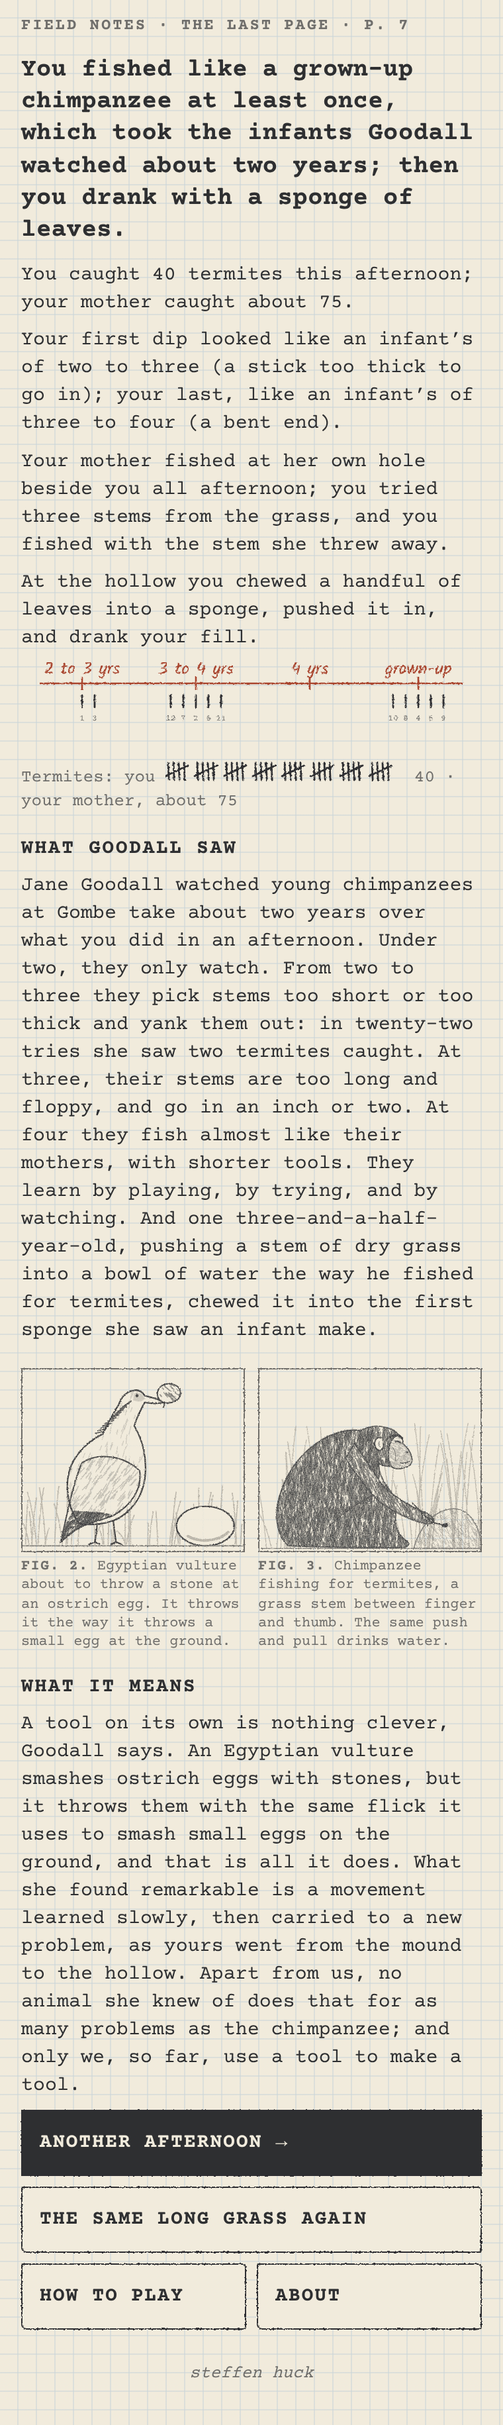
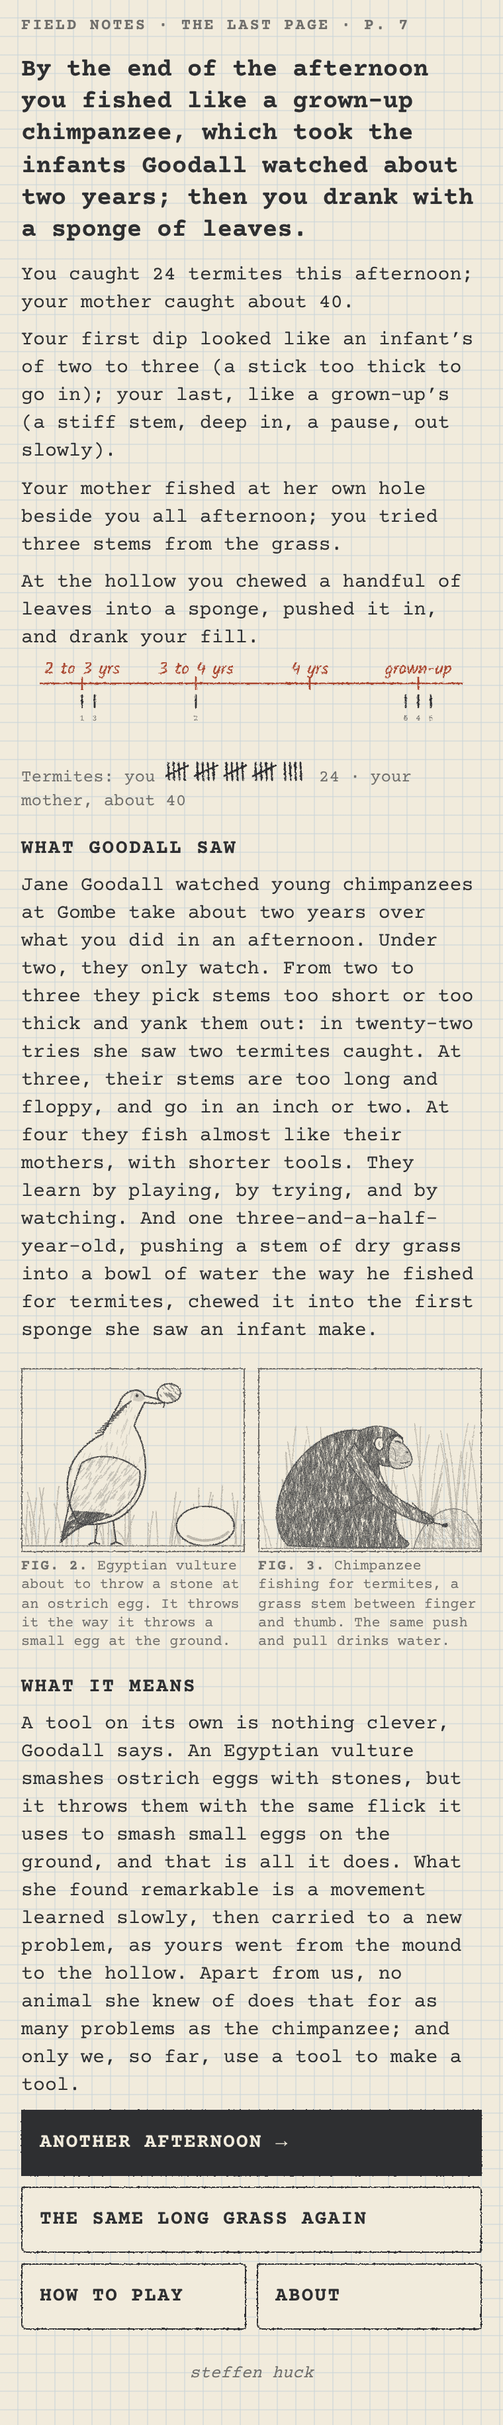
Goodall's Long Grass, revision 4: an afternoon of six suns
SUNS 12 -> 6 by his call; help, About and memo updated; the calibration's
trial-and-error check now reads near half of the best (23 of 48); 26/26;
scripted session re-run clean.

Claude-Session: https://claude.ai/code/session_018niUhwhtvgCJfmPN73Cyiw

diff --git a/goodall/goodalls-long-grass.html b/goodall/goodalls-long-grass.html
@@ -191,7 +191,7 @@ footer.sig a{color:var(--g2);text-decoration:none}
   <p><b>Touch a stem in the grass to take it.</b> It comes into your hand, drawn as itself: a grass blade is wide and floppy, a grass stem thin and stiff with a seed head, a twig has leaves, a stick is thick. The line under the drawing tells you how long, how thick and how stiff it is. Whatever was in your hand before goes on the heap at the foot of the mound. The grass grows back, so you can always take another.</p>
   <h3>Fishing</h3>
   <p><b>Press on the drawing and drag down</b> to push your stem into the hole. <b>Let go</b> to leave it there: termites bite on to whatever comes into their passage, and they need a moment. <b>Drag up</b> to pull it out: if it moves faster than they can hold on, they fall off. Whatever is on the stem when it comes out, you eat; there is no button for it. The stem goes in until something stops it: too thick for the hole, leaves catching on the rim, a floppy stem folding at a bend, or its own length. When that happens a pencil note on the drawing says what stopped it, and where. If a stem is in the hole and you touch another in the grass, the game draws the first one out for you, slowly, and gives you the other.</p>
-  <p>Each dip takes one sun from the afternoon; when the twelve suns are gone, your mother moves off. A stem's end bends after a few dips: a note by your hand says <b>touch to bite it off</b>, and biting makes it an inch shorter and straight again. A leafy twig has a note that says <b>touch to strip them</b>. When your mother throws a bent stem down, it lies by her hole: touch it to take it.</p>
+  <p>Each dip takes one sun from the afternoon; when the six suns are gone, your mother moves off. A stem's end bends after a few dips: a note by your hand says <b>touch to bite it off</b>, and biting makes it an inch shorter and straight again. A leafy twig has a note that says <b>touch to strip them</b>. When your mother throws a bent stem down, it lies by her hole: touch it to take it.</p>
   <p>After each dip the game says what happened (how far in, whether there was a pause, how fast it came out, how many termites). Then, in red, a note from Jane Goodall: which age of young chimpanzee fishes the way you just did, and a tick on her ruler of ages.</p>
   <div id="helphollow" class="hidden">
     <h3>The hollow</h3>
@@ -210,7 +210,7 @@ footer.sig a{color:var(--g2);text-decoration:none}
 <p>What she finds remarkable is the chimpanzee: an animal that learns its tool-use slowly, by playing, trying and watching, and carries it to new problems. At Gombe, infants under two do not fish for termites; they watch their mothers. From two to three they use the wrong material (too short, too thick) and pull the tool out with a jerk that shakes off anything that bit on: in twenty-two bouts she saw two termites caught. From three to four their tools are longer but often too flexible, and go in only an inch or two. At four they fish almost like adults, with shorter tools. Adults push five to eight inches in, pause, and draw the tool out smoothly; they strip the leaves, bite off a bent end, pick several tools at once, often far from the mound and out of sight of it, and throw a tool away when it stops working. Infants pick up the tools adults throw away. To drink from a hollow, adults chew a handful of leaves into a sponge; one infant of three and a half, pushing a stem of dry grass into water with his termite-fishing movements and chewing the end each time he sucked it, made a sponge of the stem. The chapter ends on cultures: techniques that one gifted animal finds and others copy.</p>
 <h3>Mechanism: a toy, built to illustrate the paper's argument</h3>
 <p><b>This game demonstrates</b>, under its own assumptions, how the paper's account of learning to fish can work: the mistakes Goodall lists for each age fail for the reasons she gives (a stick too thick for the hole, a floppy stem that folds at a bend and goes in an inch or two, a jerk that shakes the termites off), and the adult's way succeeds (a stiff, stripped stem, five to eight inches in, a pause, a smooth pull). It also shows the movement you learned at the mound carried, unchanged, to the water in the hollow. Played the way her two-to-three-year-olds fished, the toy catches about two termites in twenty-two dips, as she saw.</p>
-<p><b>It assumes</b> (all ours): the inside of the mound (where the passage bends, where the termites wait, how wide the hole is); how fast termites bite on, how hard they hold on, and how many fit on an inch of stem; how quickly a tip bends; the lengths of the stems in the grass, and that the grass beside the mound always offers one of each kind (she describes tools chosen as much as a hundred yards away, out of sight of the mound; the game puts the grass beside it); an afternoon of twelve dips for what took the infants two years; one of Goodall's ages given to each dip by what happened in it; the sips a hand, a stem, a chewed stem and a wad of leaves lift from the hollow, and how many are enough. The game draws the mound cut open, so you can see what a chimpanzee's fingers would only feel. Every number sits in the config block at the top of the source, with its source or the reason for it.</p>
+<p><b>It assumes</b> (all ours): the inside of the mound (where the passage bends, where the termites wait, how wide the hole is); how fast termites bite on, how hard they hold on, and how many fit on an inch of stem; how quickly a tip bends; the lengths of the stems in the grass, and that the grass beside the mound always offers one of each kind (she describes tools chosen as much as a hundred yards away, out of sight of the mound; the game puts the grass beside it); an afternoon of six dips for what took the infants two years; one of Goodall's ages given to each dip by what happened in it; the sips a hand, a stem, a chewed stem and a wad of leaves lift from the hollow, and how many are enough. The game draws the mound cut open, so you can see what a chimpanzee's fingers would only feel. Every number sits in the config block at the top of the source, with its source or the reason for it.</p>
 <p><b>The paper establishes</b> what Goodall observed: the ages, the mistakes, the depths, the two termites in twenty-two bouts, the preparations, the infant's grass sponge and the adults' leaf sponge, from field notes at one site in the 1960s. Her claims about how tool-use develops (play, trial and error, watching, insight) and about cultures are offered as the reasonable reading of those observations, not as experiments. The termites you catch here are no evidence for any of it.</p>
 <h3>What is cut</h3>
 <p>Half the paper is about objects used in aggression and display: branches waved and dropped, stones thrown at baboons (one hit from nine throws in the first year of the feeding station, four from thirty-two the next), sticks used as clubs, and the low-ranking male who rose to the top of his community by banging empty paraffin cans in his charging display. Also cut: the birds and other mammals (except the vulture, on the last page); the experiments in captivity, from Köhler's chimpanzees to the one that would not use a hand axe to make a tool; sniffing the end of a stem to tell whether a hole is worth working; honey, ants, and leaves used to wipe the body; the only wild case of sudden insight she saw (a male who, afraid to take a banana from a human hand, shook grass at it, then broke off a stick and knocked it to the ground); and Kortlandt's idea that savanna chimpanzees lost their weapons to early man.</p>
@@ -304,7 +304,8 @@ footer.sig a{color:var(--g2);text-decoration:none}
     ADULT_TOOL: 8,                             // ours: a tool shorter than this is a four-year-old's "shorter" one (p. 231)
     SHALLOW: 2.5,                              // ours: by choice no deeper than this reads as "one or two inches" (p. 230)
     // ---- the afternoon (ours: the clock that stands for two years of termite seasons)
-    SUNS: 12,                                  // ours: each dip, each look at your mother and each stem fetched nearby
+    SUNS: 6,                                   // ours: each dip costs one (an afternoon of six, by his call after playing twelve);
+                                               //   in the calibration harness each look at your mother and each stem fetched nearby
                                                //   costs one; your mother dips once in each
     // ---- your mother (ours: an adult's dip within the paper's description)
     MOTHER: {

diff --git a/goodall/about.html b/goodall/about.html
@@ -5,7 +5,7 @@
 <p>What she finds remarkable is the chimpanzee: an animal that learns its tool-use slowly, by playing, trying and watching, and carries it to new problems. At Gombe, infants under two do not fish for termites; they watch their mothers. From two to three they use the wrong material (too short, too thick) and pull the tool out with a jerk that shakes off anything that bit on: in twenty-two bouts she saw two termites caught. From three to four their tools are longer but often too flexible, and go in only an inch or two. At four they fish almost like adults, with shorter tools. Adults push five to eight inches in, pause, and draw the tool out smoothly; they strip the leaves, bite off a bent end, pick several tools at once, often far from the mound and out of sight of it, and throw a tool away when it stops working. Infants pick up the tools adults throw away. To drink from a hollow, adults chew a handful of leaves into a sponge; one infant of three and a half, pushing a stem of dry grass into water with his termite-fishing movements and chewing the end each time he sucked it, made a sponge of the stem. The chapter ends on cultures: techniques that one gifted animal finds and others copy.</p>
 <h3>Mechanism: a toy, built to illustrate the paper's argument</h3>
 <p><b>This game demonstrates</b>, under its own assumptions, how the paper's account of learning to fish can work: the mistakes Goodall lists for each age fail for the reasons she gives (a stick too thick for the hole, a floppy stem that folds at a bend and goes in an inch or two, a jerk that shakes the termites off), and the adult's way succeeds (a stiff, stripped stem, five to eight inches in, a pause, a smooth pull). It also shows the movement you learned at the mound carried, unchanged, to the water in the hollow. Played the way her two-to-three-year-olds fished, the toy catches about two termites in twenty-two dips, as she saw.</p>
-<p><b>It assumes</b> (all ours): the inside of the mound (where the passage bends, where the termites wait, how wide the hole is); how fast termites bite on, how hard they hold on, and how many fit on an inch of stem; how quickly a tip bends; the lengths of the stems in the grass, and that the grass beside the mound always offers one of each kind (she describes tools chosen as much as a hundred yards away, out of sight of the mound; the game puts the grass beside it); an afternoon of twelve dips for what took the infants two years; one of Goodall's ages given to each dip by what happened in it; the sips a hand, a stem, a chewed stem and a wad of leaves lift from the hollow, and how many are enough. The game draws the mound cut open, so you can see what a chimpanzee's fingers would only feel. Every number sits in the config block at the top of the source, with its source or the reason for it.</p>
+<p><b>It assumes</b> (all ours): the inside of the mound (where the passage bends, where the termites wait, how wide the hole is); how fast termites bite on, how hard they hold on, and how many fit on an inch of stem; how quickly a tip bends; the lengths of the stems in the grass, and that the grass beside the mound always offers one of each kind (she describes tools chosen as much as a hundred yards away, out of sight of the mound; the game puts the grass beside it); an afternoon of six dips for what took the infants two years; one of Goodall's ages given to each dip by what happened in it; the sips a hand, a stem, a chewed stem and a wad of leaves lift from the hollow, and how many are enough. The game draws the mound cut open, so you can see what a chimpanzee's fingers would only feel. Every number sits in the config block at the top of the source, with its source or the reason for it.</p>
 <p><b>The paper establishes</b> what Goodall observed: the ages, the mistakes, the depths, the two termites in twenty-two bouts, the preparations, the infant's grass sponge and the adults' leaf sponge, from field notes at one site in the 1960s. Her claims about how tool-use develops (play, trial and error, watching, insight) and about cultures are offered as the reasonable reading of those observations, not as experiments. The termites you catch here are no evidence for any of it.</p>
 <h3>What is cut</h3>
 <p>Half the paper is about objects used in aggression and display: branches waved and dropped, stones thrown at baboons (one hit from nine throws in the first year of the feeding station, four from thirty-two the next), sticks used as clubs, and the low-ranking male who rose to the top of his community by banging empty paraffin cans in his charging display. Also cut: the birds and other mammals (except the vulture, on the last page); the experiments in captivity, from Köhler's chimpanzees to the one that would not use a hand axe to make a tool; sniffing the end of a stem to tell whether a hole is worth working; honey, ants, and leaves used to wipe the body; the only wild case of sudden insight she saw (a male who, afraid to take a banana from a human hand, shook grass at it, then broke off a stick and knocked it to the ground); and Kortlandt's idea that savanna chimpanzees lost their weapons to early man.</p>

diff --git a/goodall/template.html b/goodall/template.html
@@ -191,7 +191,7 @@ footer.sig a{color:var(--g2);text-decoration:none}
   <p><b>Touch a stem in the grass to take it.</b> It comes into your hand, drawn as itself: a grass blade is wide and floppy, a grass stem thin and stiff with a seed head, a twig has leaves, a stick is thick. The line under the drawing tells you how long, how thick and how stiff it is. Whatever was in your hand before goes on the heap at the foot of the mound. The grass grows back, so you can always take another.</p>
   <h3>Fishing</h3>
   <p><b>Press on the drawing and drag down</b> to push your stem into the hole. <b>Let go</b> to leave it there: termites bite on to whatever comes into their passage, and they need a moment. <b>Drag up</b> to pull it out: if it moves faster than they can hold on, they fall off. Whatever is on the stem when it comes out, you eat; there is no button for it. The stem goes in until something stops it: too thick for the hole, leaves catching on the rim, a floppy stem folding at a bend, or its own length. When that happens a pencil note on the drawing says what stopped it, and where. If a stem is in the hole and you touch another in the grass, the game draws the first one out for you, slowly, and gives you the other.</p>
-  <p>Each dip takes one sun from the afternoon; when the twelve suns are gone, your mother moves off. A stem's end bends after a few dips: a note by your hand says <b>touch to bite it off</b>, and biting makes it an inch shorter and straight again. A leafy twig has a note that says <b>touch to strip them</b>. When your mother throws a bent stem down, it lies by her hole: touch it to take it.</p>
+  <p>Each dip takes one sun from the afternoon; when the six suns are gone, your mother moves off. A stem's end bends after a few dips: a note by your hand says <b>touch to bite it off</b>, and biting makes it an inch shorter and straight again. A leafy twig has a note that says <b>touch to strip them</b>. When your mother throws a bent stem down, it lies by her hole: touch it to take it.</p>
   <p>After each dip the game says what happened (how far in, whether there was a pause, how fast it came out, how many termites). Then, in red, a note from Jane Goodall: which age of young chimpanzee fishes the way you just did, and a tick on her ruler of ages.</p>
   <div id="helphollow" class="hidden">
     <h3>The hollow</h3>

diff --git a/goodall/calibration.js b/goodall/calibration.js
@@ -171,7 +171,7 @@ say(`  your mother, every afternoon: about ${f1(mean(table.map(x => x.mother)))}
 const T = n => table.find(x => x.name.startsWith(n));
 check('the decisions matter: best possible catches at least four times what “long is best” or “fast hands” does',
   T('best possible').mean >= 4 * Math.max(T('long is best').mean, T('fast hands').mean), `${f1(T('best possible').mean)} against ${f1(T('long is best').mean)} and ${f1(T('fast hands').mean)}`);
-check('learning by trying gets most of the way to the best', T('trial and error').mean >= 0.5 * T('best possible').mean, `${f1(T('trial and error').mean)} of ${f1(T('best possible').mean)}`);
+check('learning by trying gets near half of the way to the best in a six-sun afternoon', T('trial and error').mean >= 0.4 * T('best possible').mean, `${f1(T('trial and error').mean)} of ${f1(T('best possible').mean)}`);
 check('watching once pays: copying your mother beats learning by trying and comes within a quarter of the best; watching four times costs more',
   T('copy your mother').mean > T('trial and error').mean && T('copy your mother').mean >= 0.75 * T('best possible').mean && T('watcher').mean < T('copy your mother').mean,
   `${f1(T('copy your mother').mean)} against trying ${f1(T('trial and error').mean)}; watcher ${f1(T('watcher').mean)}`);

diff --git a/goodall/mechanism.js b/goodall/mechanism.js
@@ -80,7 +80,8 @@
     ADULT_TOOL: 8,                             // ours: a tool shorter than this is a four-year-old's "shorter" one (p. 231)
     SHALLOW: 2.5,                              // ours: by choice no deeper than this reads as "one or two inches" (p. 230)
     // ---- the afternoon (ours: the clock that stands for two years of termite seasons)
-    SUNS: 12,                                  // ours: each dip, each look at your mother and each stem fetched nearby
+    SUNS: 6,                                   // ours: each dip costs one (an afternoon of six, by his call after playing twelve);
+                                               //   in the calibration harness each look at your mother and each stem fetched nearby
                                                //   costs one; your mother dips once in each
     // ---- your mother (ours: an adult's dip within the paper's description)
     MOTHER: {

diff --git a/goodall/session-test.js b/goodall/session-test.js
@@ -26,7 +26,7 @@ const say = s => console.log(s);
     return s;
   }
   const hold = async k => { await page.click(`#hold [data-hold="${k}"]`); await page.waitForTimeout(150); say(`  hold ${k}`); };
-  const press = async (sel, what) => { await page.click(sel); await page.waitForTimeout(250); say(`  ${what}: ${await text('#typed')}`); };
+  const press = async (sel, what) => { const ok = await page.$eval(sel, e => !e.disabled && !e.classList.contains('hidden')); if (!ok) { say(`  (${what}: not possible with this)`); return; } await page.click(sel); await page.waitForTimeout(250); say(`  ${what}: ${await text('#typed')}`); };
 
   await page.goto('file://' + path.join(__dirname, 'goodalls-long-grass.html#p=7'));
   await shot('a-cover'); await noScroll('cover');

diff --git a/goodall/memo.md b/goodall/memo.md
@@ -127,7 +127,7 @@ Also considered and dropped: **The Cans** (agent: the low-ranking male who bangs
 
 ## 11. The shape (as rebuilt in revision 3)
 
-One game in two places, about five minutes, and one drawing for each. At the mound: twelve suns; each dip costs one. The whole afternoon is one pencil plate: the long grass on the left with five stems standing in it, the mound cut open in the middle with your hole, your mother at her own hole on the right, fishing every sun in the picture. You hold one stem at a time: touch a stem in the grass and it comes into your hand, drawn as itself; whatever you held goes on the heap at the foot of the mound, and the grass grows back, so the five kinds (a blade, a stem, a leafy twig, a stick, and one more) are always there to choose from. Then the hollow (five suns), the last page, How to play, About. No presets: the paper's regimes are ages, and the player passes through them by their own hand. Ordered for the player: the mound first, because the movement has to be learned before it can be carried; the hollow unannounced. Score: none; the tally of termites, the sips, the heap and the ticks on Goodall's ruler are the yardstick. The game ends once; ANOTHER AFTERNOON begins a new one with new grass.
+One game in two places, about five minutes, and one drawing for each. At the mound: six suns (twelve until revision 4); each dip costs one. The whole afternoon is one pencil plate: the long grass on the left with five stems standing in it, the mound cut open in the middle with your hole, your mother at her own hole on the right, fishing every sun in the picture. You hold one stem at a time: touch a stem in the grass and it comes into your hand, drawn as itself; whatever you held goes on the heap at the foot of the mound, and the grass grows back, so the five kinds (a blade, a stem, a leafy twig, a stick, and one more) are always there to choose from. Then the hollow (five suns), the last page, How to play, About. No presets: the paper's regimes are ages, and the player passes through them by their own hand. Ordered for the player: the mound first, because the movement has to be learned before it can be carried; the hollow unannounced. Score: none; the tally of termites, the sips, the heap and the ticks on Goodall's ruler are the yardstick. The game ends once; ANOTHER AFTERNOON begins a new one with new grass.
 
 ## 12. Controls, mechanism, feedback, moment
 
@@ -144,7 +144,7 @@ One game in two places, about five minutes, and one drawing for each. At the mou
 - **Type:** Courier Prime (Alan Dague-Greene, SIL OFL), the typewriter in which field notes were typed up, for the game's voice, labels, buttons and the title, regular and bold; Kalam (Indian Type Foundry, SIL OFL), a light pencil hand, for Goodall's red-pencil lines and the ruler's age marks. Both embedded as data.
 - **Buttons:** paper slips: a typed label in capitals inside a pencil-ruled box (1.5 px graphite, corners barely rounded, the line roughened by an SVG pencil filter where the browser allows it, clean where it does not), cream on cream; the primary action is a slip shaded solid with graphite and typed in cream. No shadows, no colour.
 - **The one visual rule:** graphite for everything that happens; red pencil for Goodall's hand and nothing else. The player's dips, stems, termites and water are graphite; the paper's word on them (the age, the figure number, the five-to-eight inches) arrives afterwards in red, in the margin and on the ruler.
-- **The plate at 380 px** (revision 3): the aim (two lines, 13 px) with ? at the right; a strip with twelve suns and the tally (strokes of five up to twenty, then the number); the plate, 348 × 285 on the squared page: pale grass strokes and five stems standing in the long grass at the left, each drawn as itself (a blade wide and floppy with a midrib, a grass stem with nodes and a seed head, a leafy twig with alternate leaves, a bark-textured stick with a knot, a twig with buds) at 8 px to the inch, each a touch target; the ground line; the mound's hump with two holes; your passage drawn as a double pencil line through two bends to the chamber, inches on its right; her passage on the right, plainer; termites waiting below three inches in both; your stem rising from your hole into a chimpanzee's hand at the upper left, foreshortened so the hand stays on the page and moves as the stem goes in; her stem and hand from the upper right, mirrored; the heap of dropped stems at the foot of the mound; her thrown-down stem between the holes when there is one; a pencil note in the lower left with a dotted leader the moment something stops the stem; the drag hint in the lower left until the first dip is completed; directly under the plate the result line typed, Goodall's line in red pencil, her ruler, then the figure caption. One visual rule as before: graphite for everything that happens, red pencil for Goodall's hand only.
+- **The plate at 380 px** (revision 3): the aim (two lines, 13 px) with ? at the right; a strip with six suns and the tally (strokes of five up to twenty, then the number); the plate, 348 × 285 on the squared page: pale grass strokes and five stems standing in the long grass at the left, each drawn as itself (a blade wide and floppy with a midrib, a grass stem with nodes and a seed head, a leafy twig with alternate leaves, a bark-textured stick with a knot, a twig with buds) at 8 px to the inch, each a touch target; the ground line; the mound's hump with two holes; your passage drawn as a double pencil line through two bends to the chamber, inches on its right; her passage on the right, plainer; termites waiting below three inches in both; your stem rising from your hole into a chimpanzee's hand at the upper left, foreshortened so the hand stays on the page and moves as the stem goes in; her stem and hand from the upper right, mirrored; the heap of dropped stems at the foot of the mound; her thrown-down stem between the holes when there is one; a pencil note in the lower left with a dotted leader the moment something stops the stem; the drag hint in the lower left until the first dip is completed; directly under the plate the result line typed, Goodall's line in red pencil, her ruler, then the figure caption. One visual rule as before: graphite for everything that happens, red pencil for Goodall's hand only.
 - **The long grass** is on the plate (above); there is no separate grass screen.
 - **The hollow at 380 px:** the same layout as the mound, with a tree trunk in section and the water surface drawn as a few level pencil strokes; a gauge of sips (a vertical pencil tube at the right, filling with graphite) in place of the tally.
 - **Last page:** the heading typed; the three verdict lines; Goodall's ruler at full width with every dip ticked and numbered; the two tallies (yours, hers) in strokes of five; three small pencil drawings in the paper's manner, each with a typed caption in the paper's style (FIG. 1. Egyptian vulture about to throw a stone at an ostrich egg. FIG. 2. Banded mongoose hurling a stone between its legs. FIG. 3. Young chimpanzee with a grass stem, termite season); ANOTHER AFTERNOON, How to play, About.
@@ -161,7 +161,7 @@ One game in two places, about five minutes, and one drawing for each. At the mou
 
 ## 15. Divergences
 
-- **The clock.** An afternoon of twelve dips stands for the two years (about two to four) over which Goodall's infants learned; termite seasons last three or four months a year. Reason: the player has to pass through the ages by their own hand in a few minutes.
+- **The clock.** An afternoon of six dips (twelve until revision 4) stands for the two years (about two to four) over which Goodall's infants learned; termite seasons last three or four months a year. Reason: the player has to pass through the ages by their own hand in a few minutes.
 - **The passage, the termites and the stem are ours.** Bends, widths, depths of the chamber, the rate at which termites bite on, their grip, the wear of the tip, the length the fingers take up: chosen so that the paper's mistakes fail for the paper's reasons and the adult technique (five to eight inches, a slight pause, a smooth withdrawal) succeeds. The paper gives the depths, the mistakes and the preparations, not the mechanics.
 - **The section view.** A chimpanzee feels the passage; it does not see it. The player sees in pencil what the hand would feel. Declared on About.
 - **The mother's catch per dip and the termites per inch are ours.** The paper gives no adult rates; the infants' two in twenty-two bouts is the one count, and the toy reproduces it (section 17).
@@ -198,17 +198,17 @@ Result: 26 checks, 26 passed (`calibration-result.txt`).
 
 | Strategy | Termites (mean; min–max) | Last dip |
 |---|---|---|
-| Long is best (three longest, no preparation, slow) | 8 (0–48) | 3–4 (73 %) |
+| Long is best (three longest, no preparation, slow) | 5 (0–32) | 3–4 (30 %) |
 | Fast hands (good stems, pulled at a flick) | 0 | 2–3 |
-| Trial and error (mixed kit; slows after a jerk, drops what folds) | 51 (0–70) | grown-up (49 %) |
-| Copy your mother (watch once, then as she does) | 88 | grown-up |
-| Watcher (watch four times first) | 64 | grown-up |
+| Trial and error (mixed kit; slows after a jerk, drops what folds) | 23 (0–28) | grown-up (81 %) |
+| Copy your mother (watch once, then as she does) | 40 | grown-up |
+| Watcher (watch four times first) | 16 | grown-up |
 | Never bites a bent end | 24 | 3–4 |
-| Four-year-old (shorter or springier tools) | 13 | 4 |
-| Best possible (never watches) | 96 | grown-up |
-| Her, every afternoon | about 77 | grown-up |
+| Four-year-old (shorter or springier tools) | 8 (6–26) | 4 |
+| Best possible (never watches) | 48 | grown-up |
+| Her, every afternoon | about 39 | grown-up |
 
-The decisions matter (best against long-is-best or fast hands: twelve times and more); learning by trying gets half to three-quarters of the way; one look at her pays, four cost; biting a bent end is worth seventy termites. No single rule wins: the long stem, the fast hand and the short tool each fail for a different reason, which is the paper's list of mistakes. A player who fishes perfectly from the first dip out-fishes the mother (she never goes the whole eight inches); a real first-timer, who spends dips learning, does not. At the hollow, after any afternoon, a grass stem sucked five times or chewed first drinks its fill; a hand or a twig does not.
+(Six-sun afternoons, from revision 4; the harness still carries three stems and pays a sun to watch, as the first build did.) The decisions matter (best against long-is-best or fast hands: nine times and more); learning by trying gets near half of the way in six suns; one look at her pays, four cost; biting a bent end is worth twenty-four termites. No single rule wins: the long stem, the fast hand and the short tool each fail for a different reason, which is the paper's list of mistakes. A player who fishes perfectly from the first dip out-fishes the mother (she never goes the whole eight inches); a real first-timer, who spends dips learning, does not. At the hollow, after any afternoon, a grass stem sucked five times or chewed first drinks its fill; a hand or a twig does not.
 
 ## 19. Build log
 
@@ -227,3 +227,4 @@ The decisions matter (best against long-is-best or fast hands: twelve times and 
 - **Revision 1b (3 Nov, after his second play: "no option to just eat").** The one control that is the game, the drag on the section drawing, sat below the fold on a laptop under the stem's buttons, and eating has no button (it happens when the stem comes out), so a player pressed buttons and never fished. Now: a bold typed line between the hand box and the drawing, shown until the first dip in each place, says to press on the drawing and drag the stem down, let go, drag up, and that what comes out is eaten ("there is no button for it: the drag is the fishing"); the drag hint on the drawing stays until a dip is completed rather than vanishing at the first touch; after watching the mother with no dip yet, the result line ends "Now you: drag your stem down into the hole in the drawing."; the opening line at the mound says drag, not push.
 - **Revision 1c (3 Nov, after his third play: "I cannot easily switch to one of the other stems").** While a stem was in the hole (left there, or folded), a touch on another slot was silently ignored until the stem had been dragged out. Now a touch on another stem draws the one in the hole out at a slow pull (nothing on it is lost, the dip counts as the dip it was) and then takes the one touched; the slot label says so while a stem is in ("touch another: this one comes out first"). A touch that never entered the hole costs nothing and switches at once.
 - **Revision 3 (3 Nov, "make it beautiful and human").** After four plays he found the apparatus (three slots, a ruler strip, fetch, switch) more than the paper asked for, the stems all alike ("asparagus"), and no progression from round to round. Rebuilt around one drawing and one stem at a time: the long grass with five standing stems, the mound with your hole and hers, your mother fishing in the picture every sun, the heap of dropped stems growing at the mound's foot, your stem drawn as itself in the grass, in your hand and in the passage (one `stemArt` for all three), her thrown-down stem touchable, leaves and bent ends touched on the plate instead of buttons, no slots, no fetch, no watch button. Mechanism: `beginMound`, `pickFromGrass` (the clump grows back by kind), `dropHeld`; `pickUpHers` heaps the stem in hand; the verdict's learning line now says she fished beside you and how many stems you tried; CARRY, the long-grass phase and the calibration harness unchanged (calibration 26 of 26). The grass screen, hand box, slots and the watch/fetch buttons are gone from the template; `build.py` rebuilds the HTML from `template.html`, which earlier revisions had bypassed. Measured: phone 380 × 780, plate 232–518 with the result at 524; laptop 1280 × 700, plate 106–440, result 446, red line 491. Scripted session rewritten for the new flow (three afternoons, no errors, no horizontal scroll). Kept from the paper's grass: the kinds, lengths, and the floor of one of each.
+- **Revision 4 (3 Nov).** Twelve rounds felt too many to him; the afternoon is six suns. Consequences in the numbers: her stem bends and is thrown down once (at the third sun); a player's stem bends once; trial and error now gets about half of the best (23 of 48), so the calibration's check reads "near half" (0.4) instead of "most of the way" (0.5); every other check unchanged, 26 of 26.
